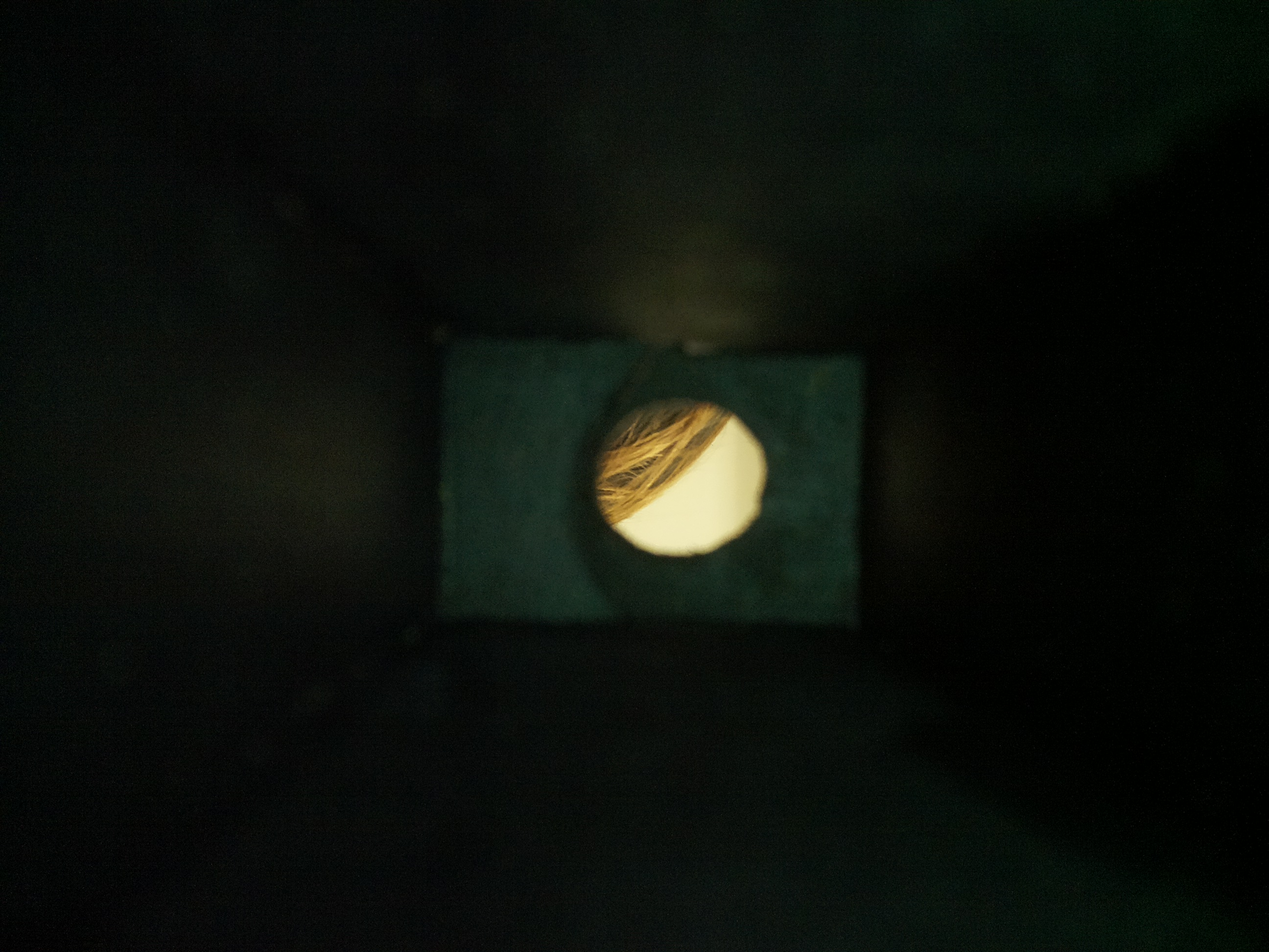
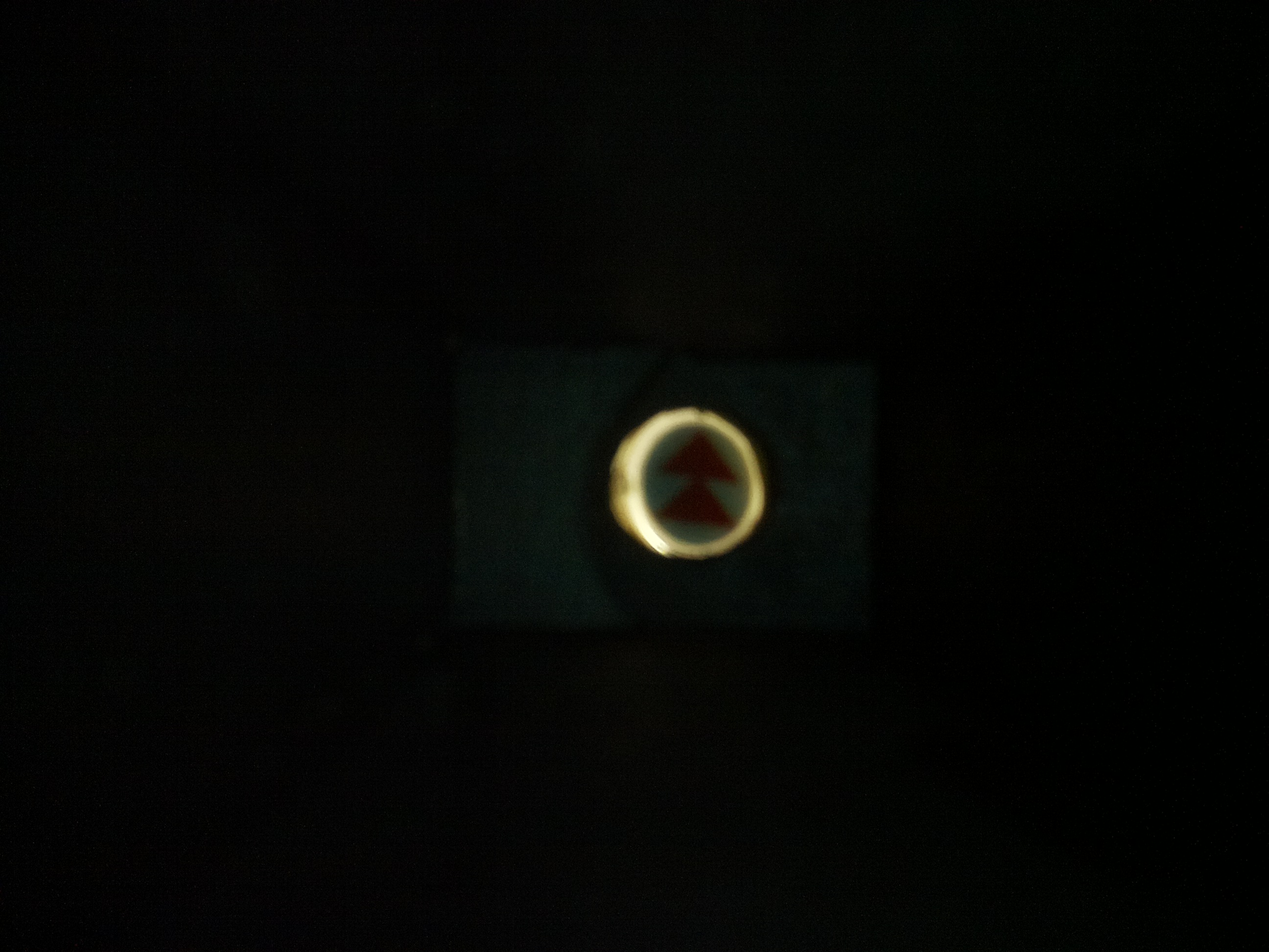
finish modif

Changed region(s): [[0.3438, 0.1852, 0.6875, 0.6481], [0.1875, 0.4321, 0.3125, 0.5556]]

diff --git a/led.py b/led.py
@@ -4,19 +4,13 @@ import signal
 
 colors = [0xFF0000, 0x00FF00, 0x0000FF, 0xFFFF00, 0xFF00FF, 0x00FFFF]
 pins = {'pin_R':29, 'pin_G':31, 'pin_B':33}  # pins is a dict
-
-GPIO.setmode(GPIO.BOARD)       # Numbers GPIOs by physical location
+GPIO.cleanup()
+GPIO.setmode(GPIO.BOARD)
+GPIO.setup(29, GPIO.OUT)# Numbers GPIOs by physical location
 for i in pins:
 	GPIO.setup(pins[i], GPIO.OUT)   # Set pins' mode is output
 	GPIO.output(pins[i], GPIO.HIGH) # Set pins to high(+3.3V) to off led
 
-p_R = GPIO.PWM(pins['pin_R'], 5000)  # set Frequece to 2KHz
-p_G = GPIO.PWM(pins['pin_G'], 5000)
-p_B = GPIO.PWM(pins['pin_B'], 5000)
-
-p_R.start(0)      # Initial duty Cycle = 0(leds off)
-p_G.start(0)
-p_B.start(0)
 
 def map(x, in_min, in_max, out_min, out_max):
 	return (x - in_min) * (out_max - out_min) / (in_max - in_min) + out_min
@@ -41,7 +35,7 @@ def end_process():
 	for i in pins:
 		GPIO.output(pins[i], GPIO.HIGH)    # Turn off all leds
 	GPIO.cleanup()
-
+GPIO.output(29, GPIO.HIGH)
 signal.signal(signal.SIGTERM, end_process)
 
 try:

diff --git a/bouton.py b/bouton.py
@@ -81,7 +81,7 @@ while True:
             delta = datetime.now() - recTime
             if int(delta.total_seconds()) < 0.20:
                 print("Appuie court")
-                audio.play_audio("audio/systemAudio/keepPushingToRecord.ogg")
+                audio.play_audio("audio/systemAudio/keepPushingToRecord.ogg", volume)
             else:
                 print("Fin de l'enregistrement")
                 canStart = True
@@ -92,6 +92,7 @@ while True:
 
     # Delete audio file
     if GPIO.input(4) == GPIO.HIGH:
+        print('boo')
         if button4Pressed == False:
             button4Pressed = True
 

diff --git a/classes/Tutorial.py b/classes/Tutorial.py
@@ -1,4 +1,4 @@
-import os
+import time
 
 from .Audio import Audio
 from .Micro import Micro
@@ -63,6 +63,7 @@ class Tutorial:
             self.delButton = True
             audioDelete = AudioStoring("", "tuto")
             audioDelete.deleteAudio()
+            time.sleep(1)
             self.audio.play_audio("audio/systemAudio/fin-tutoriel.ogg", self.volume)
         elif value == "1":
             self.audio.play_audio("audio/systemAudio/deleteConfirmationIntermediary.ogg", self.volume)

diff --git a/classes/VolumeControl.py b/classes/VolumeControl.py
@@ -42,7 +42,7 @@ class VolumeControl:
                 if self.counter < 150:
                     self.counter += 1
             else:
-                if self.counter > 0:
+                if self.counter > 1:
                     self.counter -= 1
             print(self.counter)
             self.setSave()
